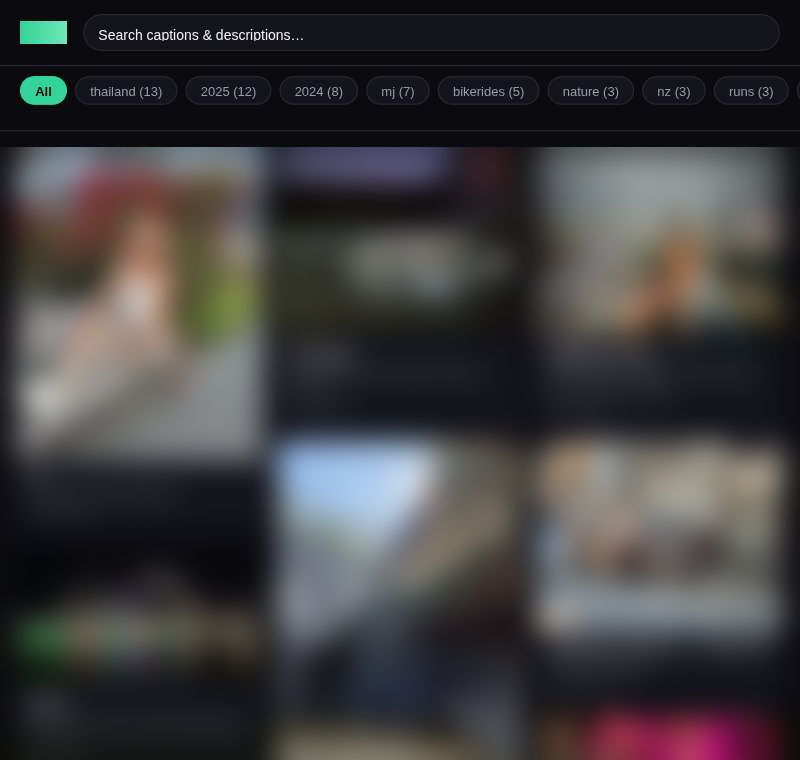
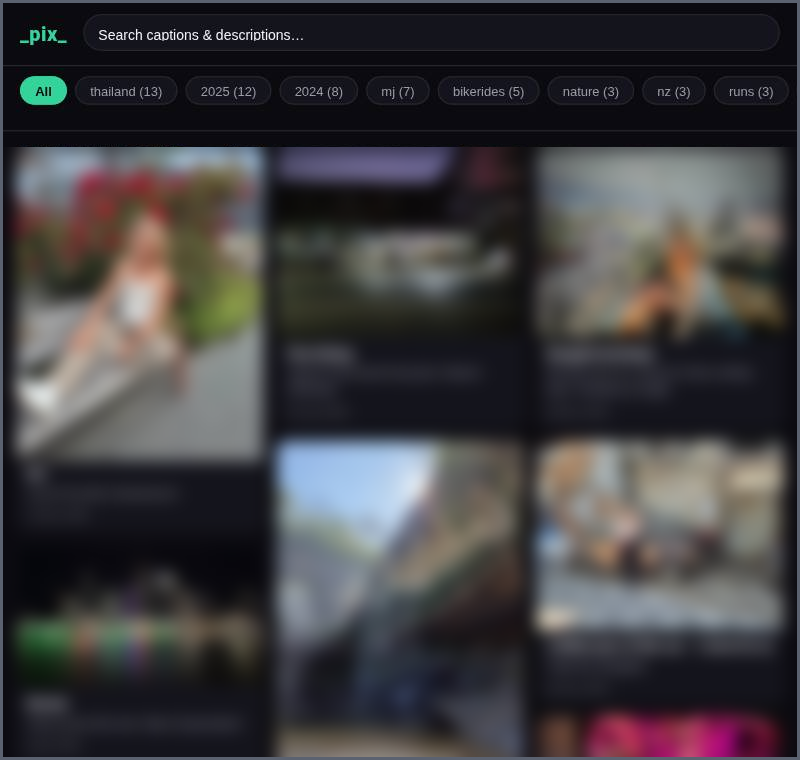
Fix README screenshots
- The pix logo uses background-clip:text, which html2canvas can't render
  (it silently fell back to a solid box) — swapped it for a plain color
  fill just for the capture, so the logo is legible now.
- Reduced blur strength (it was too heavy) and added a border around both
  screenshots.
- Switched the Android screenshot from a raw <img> tag to standard
  markdown image syntax, and pre-sized/bordered the file itself instead of
  relying on an HTML width attribute — some markdown renderers don't render
  inline HTML, which was likely why it wasn't showing up.

diff --git a/README.md b/README.md
@@ -103,7 +103,7 @@ all against the same API above (no separate backend needed). On first launch it
 asks for your server's URL and remembers it, so one APK works against anyone's
 deployment; that can be changed later from the settings icon on the gallery screen.
 
-<img src="docs/screenshot-android.png" alt="pix Android app" width="320">
+![pix Android app](docs/screenshot-android.png)
 
 To build and run it:
 
